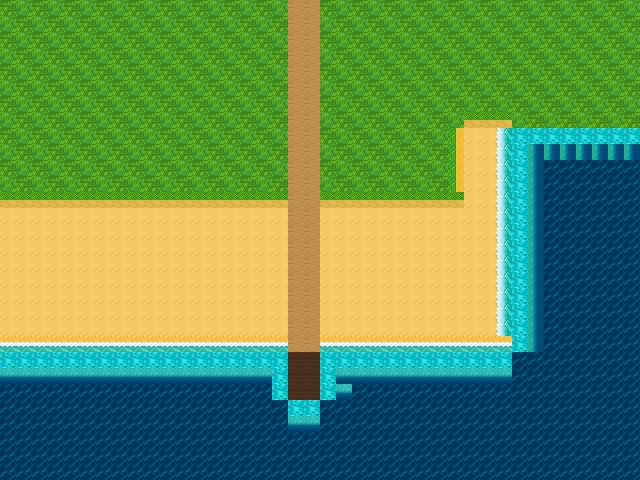
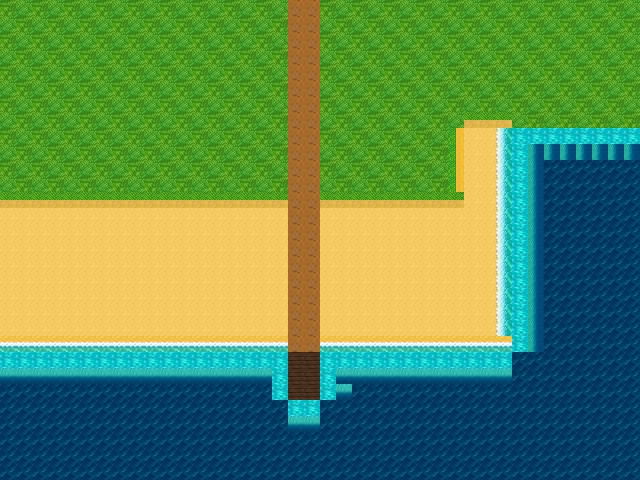
Ocean 31m: Imagine dirt path and pier.

Changed region(s): [[0.4375, 0.0, 0.5, 0.75]]

diff --git a/index.html b/index.html
@@ -115,7 +115,7 @@
 (function () {
   "use strict";
 
-  var BUILD = "20260831l";
+  var BUILD = "20260831m";
   var VIEW_W = 320;
   var VIEW_H = 192;
   var TILE = 16;
@@ -3090,7 +3090,7 @@
   function buildOceanGround() {
     var cols = OCEAN_COLS, rows = OCEAN_ROWS;
     var g = [], y, x, row, ch;
-    /* 31l stamped oceanMap: Imagine grass-sand + sand-foam edges; grass/dirt/sand/dock f; water y. */
+    /* 31m stamped oceanMap: Imagine dirt path + pier; grass-sand/sand-foam edges from 31l; dirt/sand/dock f; water y. */
     var walk = [
       "ffffffffffffffffffffffffffffffffffffffff",
       "ffffffffffffffffffffffffffffffffffffffff",

diff --git a/BACKLOG.md b/BACKLOG.md
@@ -2,6 +2,7 @@
 
 Playtest issues from the live game ([yamizzle.github.io/orion-farm](https://yamizzle.github.io/orion-farm/)). Both Grok Build and Grok Bot should pick from the top. Do not close an item without a playtest on the live URL.
 
+Local 8/31 (BUILD 20260831m): ocean dirt path and pier are new Imagine tiles (31l grass-sand/sand-foam edges kept). Household save intact. Never START OVER.
 Local 8/31 (BUILD 20260831l): ocean grass-sand and sand-ocean edges are new Imagine tiles on straight rows (not 31i hard bands). Household save intact. Never START OVER.
 Local 8/31 (BUILD 20260831k): peak cave arch enters STAIRS again (31j walk-through regression). Household save intact. Never START OVER.
 Local 8/31 (BUILD 20260831j): longer readable sword swing (hits mid-arc), wider slash flash, fat-finger strike button bottom-left above the hotbar, swing faces nearest in-reach foe. LIVE 5:20pm: peak cave-down REOPEN (stranded); sword in BAG not tray, Space no slash, no strike btn on PEAK. Ocean UNTESTED. Household save intact. Never START OVER.
